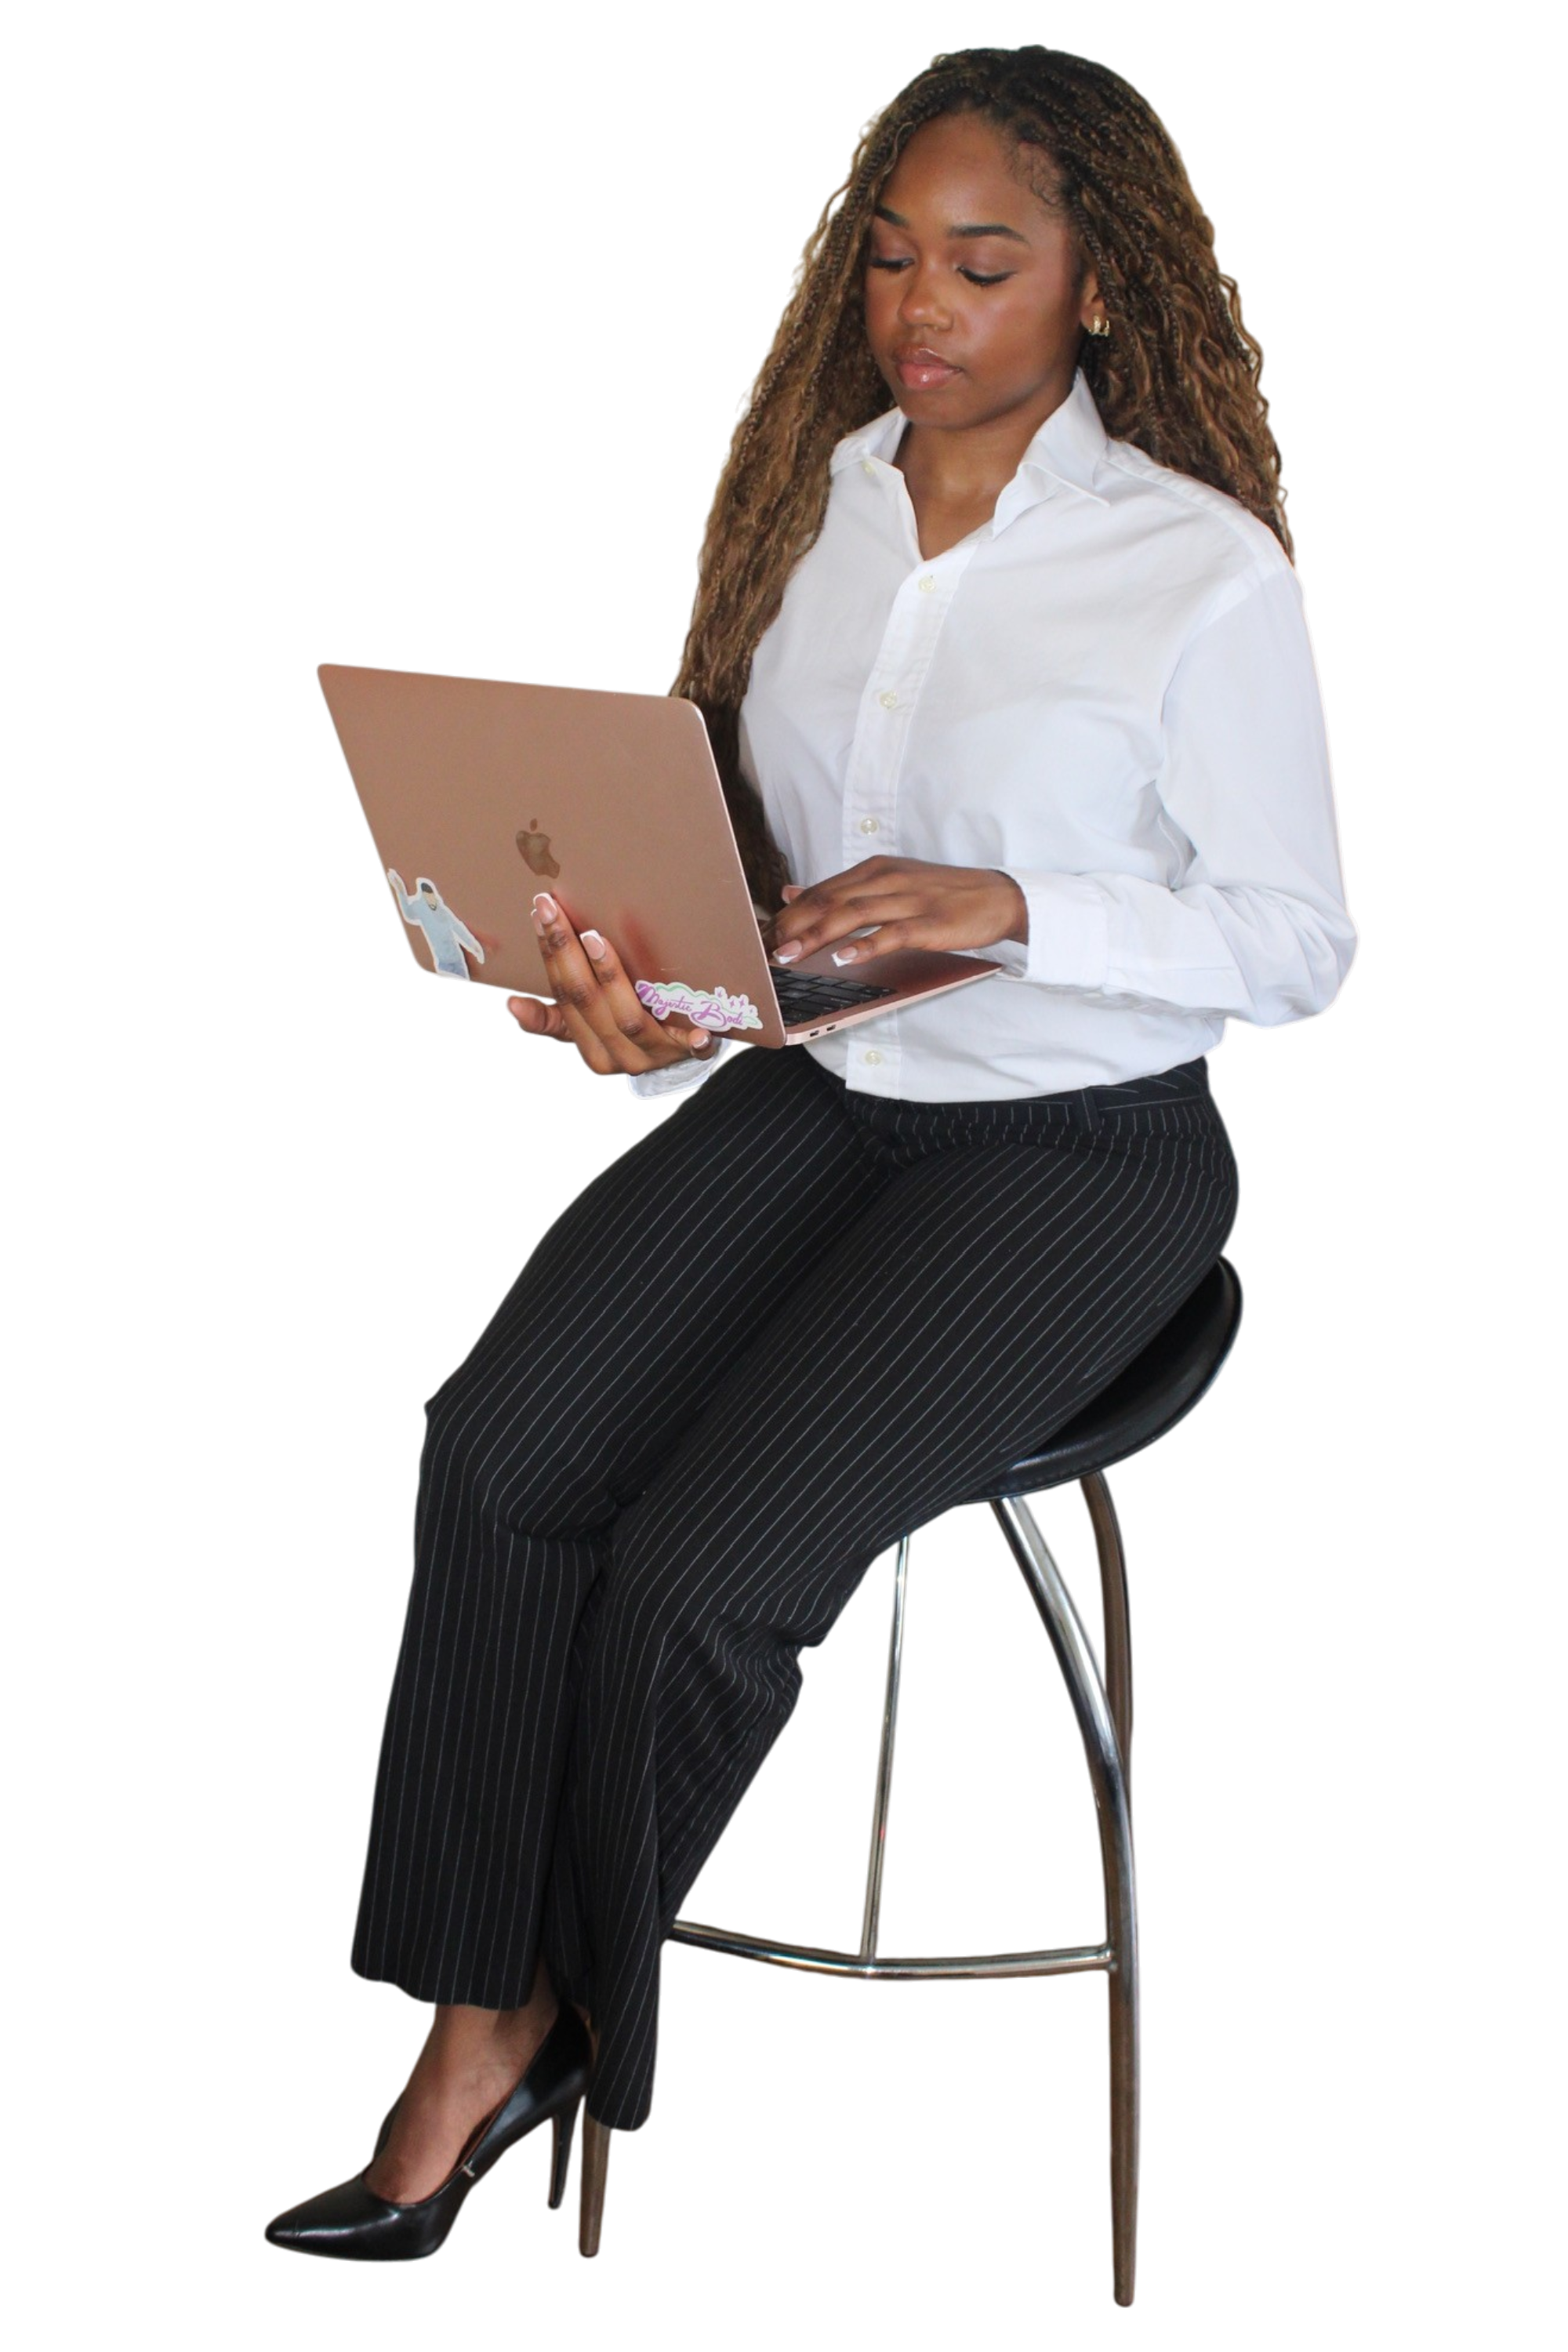
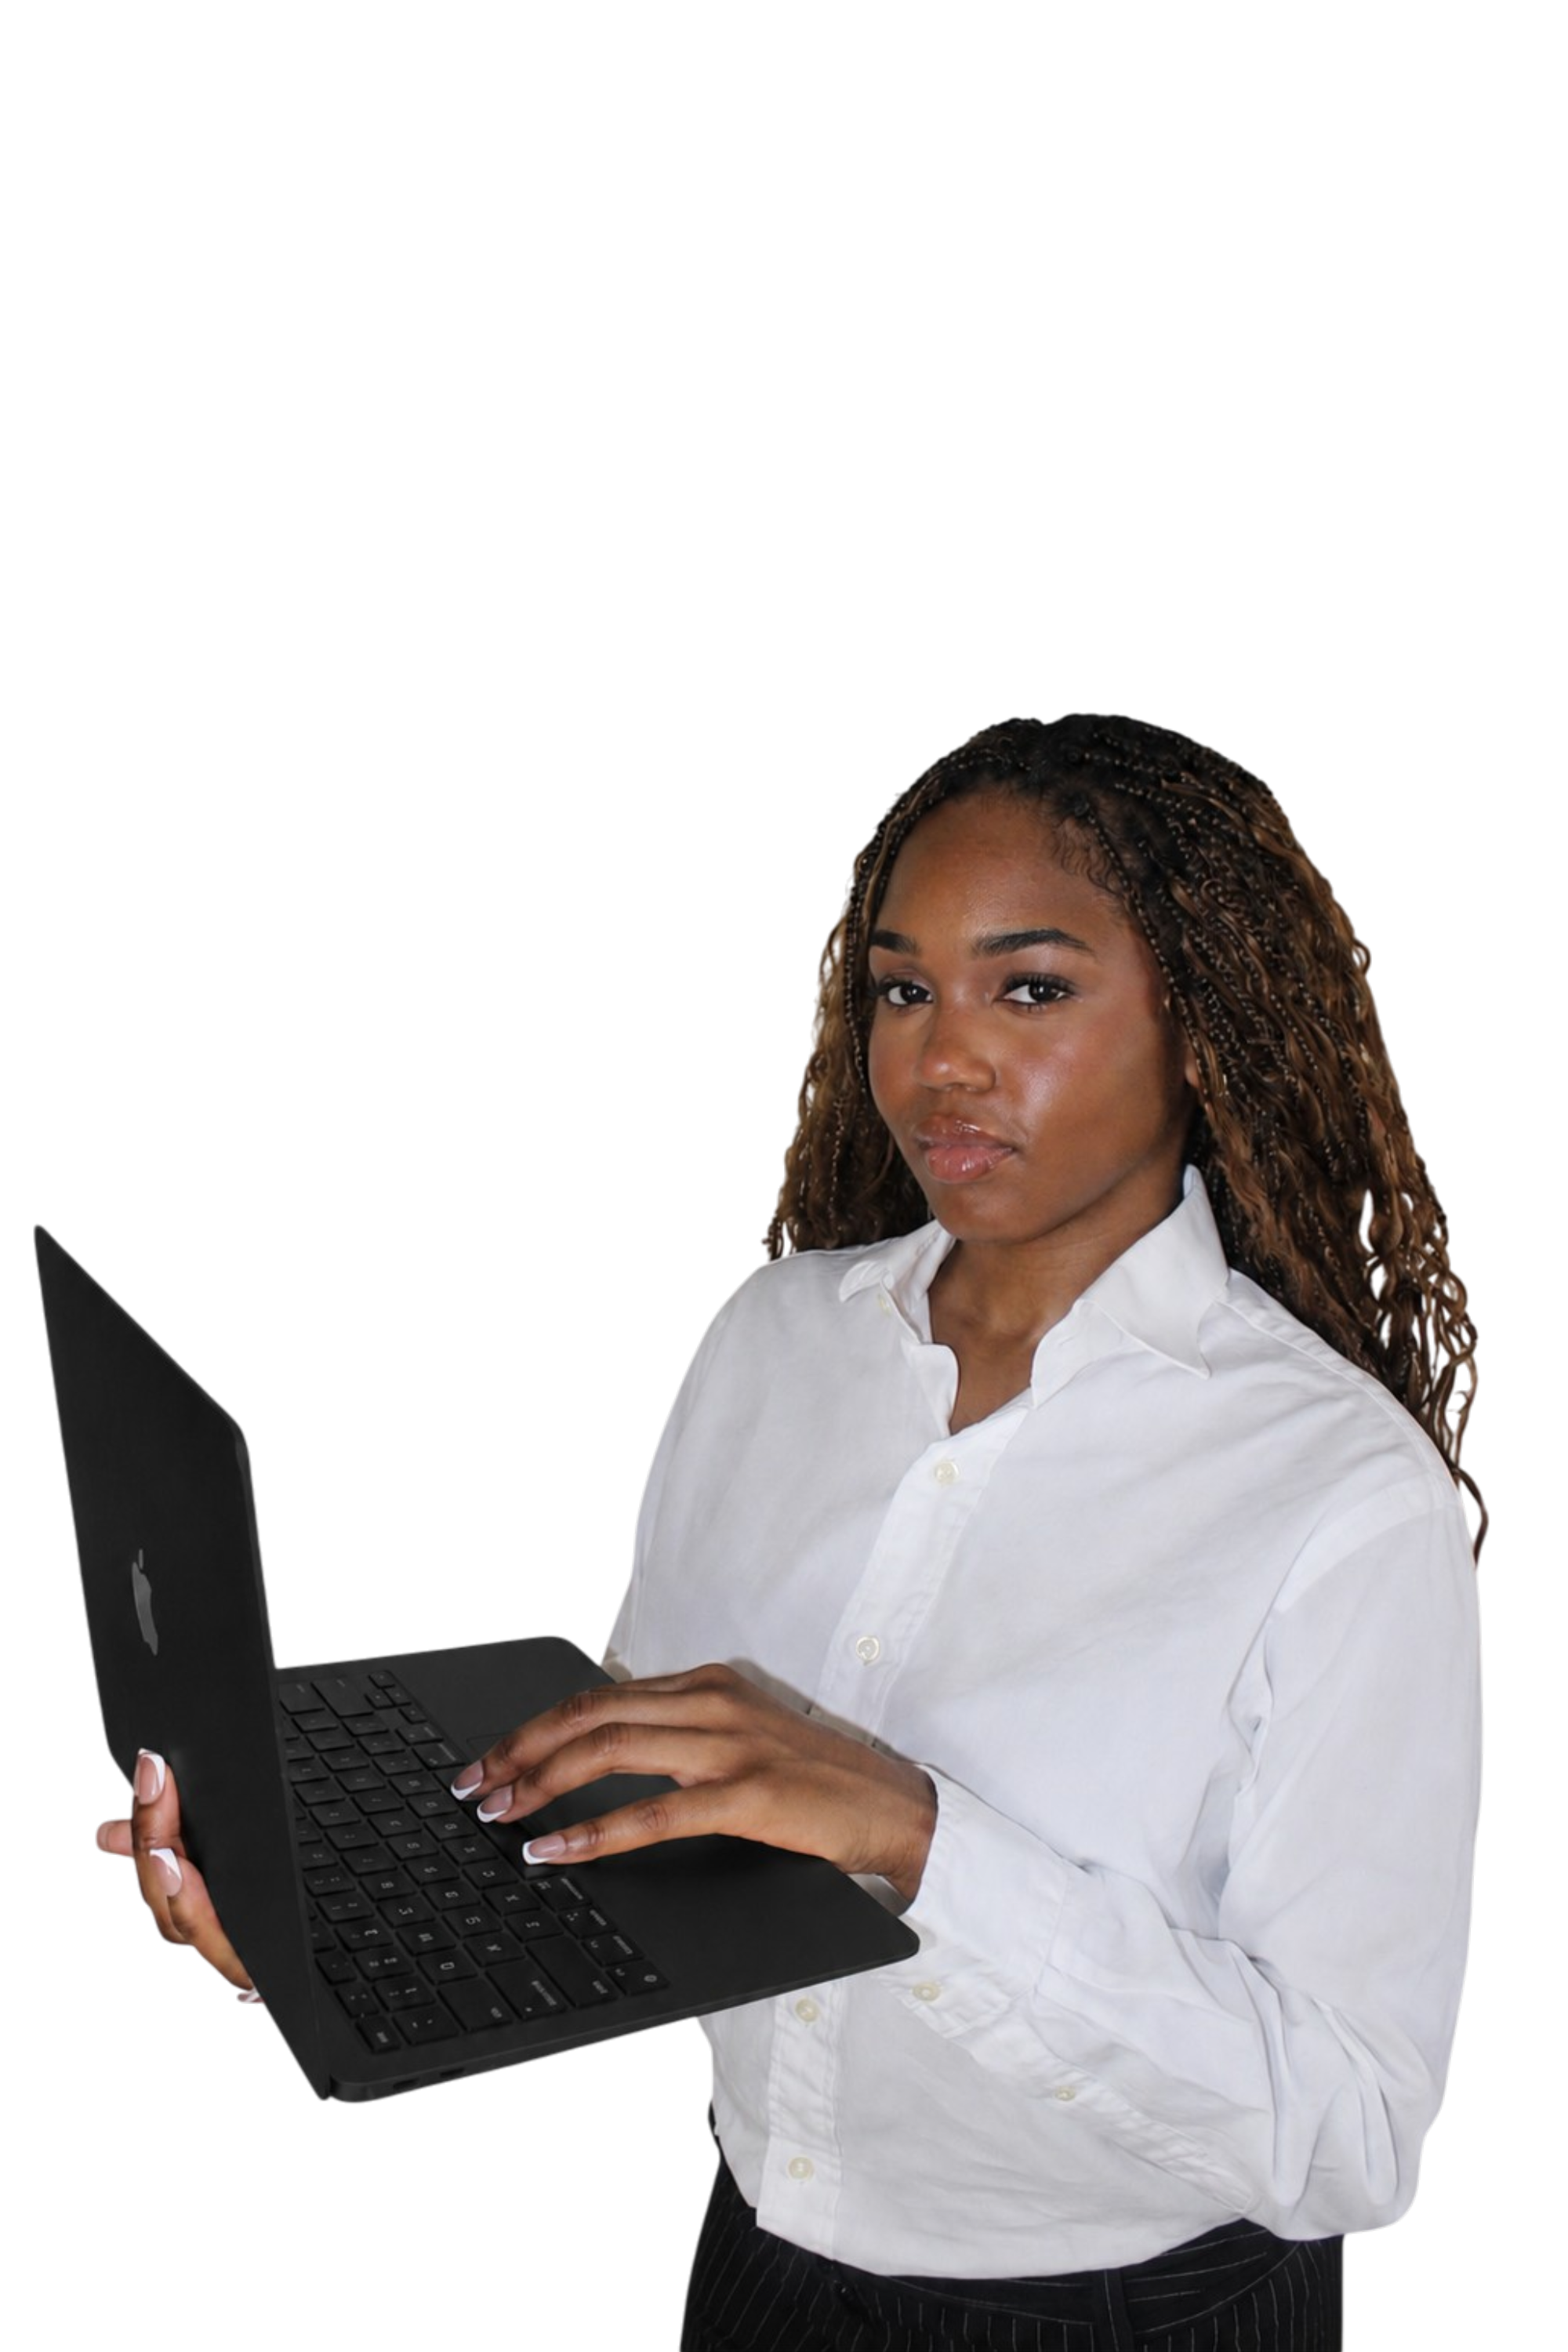
finished Eve

diff --git a/styles.css b/styles.css
@@ -5,7 +5,7 @@ body {
     margin: 0;
     padding: 0;
 }
-
+/* Main Container Styles */
 .main{
     width: 100%;
     flex: 1;
@@ -41,7 +41,7 @@ body {
         transform: scale(1);
     }
 }
-
+/* Navigation Bar Styles */
 .navbar{
     width: 86%;
     display: flex;
@@ -131,7 +131,7 @@ ul li a{
 ul li a:hover{
     color: #9BD671;
 }
-
+/* Homepage Info Section Styles */
 .info{
     margin-left: 7%;
     margin-top: 6%;
@@ -158,22 +158,27 @@ ul li a:hover{
     background: #3B2349;
     padding: 10px 18px;
     border-radius: 10px;
+    border: 2px solid #9BD671;
     display: inline-block;
     transition: 1s ease;
     font-family: Ubuntu;
+    cursor: pointer;
+    font-weight: bold;
+    font-size: 16px;
 }
 
 .info a:hover{
     background: #9BD671;
     color: #3B2349;
 }
-
+/* Image Styles */
 .image{
     width: 35%;
     height: 55%;
     position: absolute;
     right:0;
-    bottom: 100px;
+    top: 45%;
+    transform: translateY(0);
 }
 
 .image img{
@@ -181,14 +186,14 @@ ul li a:hover{
     height: 160%;
     left: 35%;
     transform: translate(-70%);
-    bottom:0;
-    transition: left 2s ease;
+    bottom:0px;
+    transition: filter 0.4s ease-in-out, drop-shadow 0.4s ease-in-out;
 }
 
 .image img:hover{
-    left: 55%
+    filter: drop-shadow(0 0 25px rgba(155, 214, 113, 0.8)) brightness(1.1);
 }
-
+/* Footer Styles */
 .footer {
     width: 100%;
     padding: 20px 40px;
@@ -219,7 +224,7 @@ ul li a:hover{
     height: 30px;
     object-fit: contain;
 }
-
+/* About Page Styles */
 .about-wrapper {
     width: 60%;
     margin: auto;
@@ -265,6 +270,7 @@ ul li a:hover{
     width: 280px;
     height: 280px;
     object-fit: cover;
+    object-position: center 75% !important;
     border-radius: 50%; 
     border: 3px solid #3B2349;
     box-shadow: 0 10px 20px rgba(0,0,0,0.15);
@@ -280,6 +286,7 @@ ul li a:hover{
     max-width: 800px; 
     margin-left: auto;
     margin-right: auto;
+    font-weight:bold;
 }
 
 .about-hire-btn {
@@ -288,6 +295,8 @@ ul li a:hover{
     background: #3B2349; 
     padding: 12px 40px;
     border-radius: 25px; 
+    border: 2px solid #9BD671;
+    
     display: inline-block;
     font-size: 16px;
     font-weight: bold;
@@ -299,8 +308,9 @@ ul li a:hover{
 .about-hire-btn:hover {
     background: #9BD671;
     transform: scale(1.05); 
+    color:#3B2349
 }
-
+/* Image Hover Effect Styles */
 .image-hover-container{
     display: inline-block;
     position: relative;
@@ -314,6 +324,7 @@ ul li a:hover{
     width: 280px;
     height: 280px;
     object-fit: cover;
+    object-position: center 75% !important;
     border-radius: 50%;
     border: 3px solid #3B2349;
     box-shadow: 0 10px 20px rgba(0,0,0,0.15);
@@ -338,7 +349,7 @@ ul li a:hover{
 .image-hover-container:hover img {
     box-shadow: 0 0 35px rgba(218, 113, 240, 0.6); 
 }
-
+/* Glowing Text Styles */
 .glowing-tech-title {
     font-size: 36px !important; 
     color: #9BD671 !important;  
@@ -389,7 +400,7 @@ ul li a:hover{
         transform: translateX(0);
     }
 }
-
+/* Zipper Animation Styles */
 .zipper-container{
     overflow-x: hidden;
     padding: 20px;
@@ -455,7 +466,7 @@ ul li a:hover{
         transform: translateX(0);
     }
 }
-
+/* Project Slider Styles */
 .slider-wrapper{
     position: relative;
     width: 100%;
@@ -484,7 +495,7 @@ ul li a:hover{
 .slider-track::-webkit-scrollbar {
     display: none;
 }
-
+/* Project Card Styles */
 .card {
     flex: 0 0 calc((100% - 40px) / 3);
     height: 480px;
@@ -510,9 +521,9 @@ ul li a:hover{
 .card-content h3{
     margin-top: 0;
     margin-bottom: 30px;
-    font-family: 'Courier New', Courier, monospace;
+    font-family: Ubuntu;
     color:#9BD671;
-    font-size: 22px;
+    font-size: 32px;
     text-align: center;
 }
 
@@ -525,6 +536,7 @@ ul li a:hover{
     display: block;
     overflow: hidden;
     text-align: center;
+    font-weight: bold;
 }
 
 .card-tech-stack {
@@ -572,7 +584,7 @@ ul li a:hover{
     transform: scale(1.05);
     box-shadow: 0 0 15px rgba(155, 214, 113, 0.6);
 }
-
+/* Navigation Arrow Styles */
 .nav-arrow {
     position: absolute;
     top: 50%;
@@ -605,7 +617,7 @@ ul li a:hover{
     background: #3B2349;
     transform: translateY(-50%) scale(1.1);
 }
-
+/* Contact Page Styles */
 .contact-header {
     text-align: center;
     margin-bottom: 40px;
@@ -615,13 +627,13 @@ ul li a:hover{
 .contact-header h3 {
     font-family: monospace;
     color: white;
-    font-size: 15px;
-    line-height: 22px;
-    max-width: 600px;
+    font-size: 18px;
+    line-height: 24px;
+    max-width: 1000px;
     margin: 15px auto 0 auto; 
-    font-weight: normal;
+    font-weight: bold;
 }
-
+/* Contact Split Layout Styles */
 .contact-split-layout {
     display: flex;
     justify-content: space-between;
@@ -633,7 +645,7 @@ ul li a:hover{
     padding: 0 40px;
     box-sizing: border-box;
 }
-
+/* Contact Form and Links Styles */
 .contact-form-side, 
 .contact-links-side {
     flex: 1; 
@@ -701,7 +713,7 @@ ul li a:hover{
     min-height: 150px;
     resize: vertical;
 }
-
+/* Social Connect Grid Styles */
 .social-connect-grid {
     display: flex;
     flex-direction: column;
@@ -749,9 +761,125 @@ ul li a:hover{
     font-size: 28px;
     line-height: 1;
 }
+/* Responsive Styles  for Mobile Devices */
 
 @media (max-width: 768px) {
+    .navbar {
+        width: 95%;
+        padding: 10px 0;
+    }
+
+    .navbar .logo {
+        width: 70px;
+        height: 70px;
+    }
+
+    .logo-text {
+        font-size: 18px;
+    }
+
+    ul {
+        gap: 5px;
+    }
+
+    ul li {
+        padding: 8px 10px;
+    }
+
+    ul li a {
+        font-size: 13px;
+    }
+
+    .info {
+        margin-left: 5%;
+        margin-top: 15%;
+    }
+
+    .info h1 {
+        font-size: 40px;
+    }
+
+    .info h3 {
+        font-size: 14px;
+        line-height: 20px;
+    }
+
+    .info a {
+        padding: 8px 12px;
+        font-size: 14px;
+        margin-right: 10px;
+    }
+
+    .image {
+        width: 100%;
+        height: auto;
+        position: relative;
+        top: auto;
+        bottom: auto;
+        margin-top: 30px;
+    }
+
+    .image img {
+        height: auto;
+        width: 80%;
+        left: 50%;
+    }
+
     .contact-split-layout {
         flex-direction: column;
+        gap: 30px;
+        max-width: 100%;
+        padding: 0 20px;
+    }
+
+    .card {
+        flex: 0 0 100%;
+        height: auto;
+    }
+
+    .about-wrapper {
+        width: 90%;
+        padding: 20px;
+    }
+
+    .about-image img,
+    .image-hover-container img {
+        width: 200px;
+        height: 200px;
+    }
+
+    .slider-wrapper {
+        padding: 0 20px;
+    }
+
+    .contact-header h1 {
+        font-size: 28px;
+    }
+
+    .footer {
+        padding: 15px 20px;
+    }
+
+    .footer p {
+        font-size: 12px;
+    }
+}
+
+@media (max-width: 480px) {
+    .info h1 {
+        font-size: 30px;
+    }
+
+    .glowing-tech-title {
+        font-size: 24px !important;
+    }
+
+    ul li a {
+        font-size: 11px;
+        padding: 6px 8px;
+    }
+
+    .card-content h3 {
+        font-size: 20px;
     }
 }

diff --git a/contact.html b/contact.html
@@ -49,17 +49,17 @@
 
                     
                     <a href="https://github.com/AlluringAleshia" class="connect-card" target="_blank" rel="noopener">
-                        <img src="images/Githublogo.png" alt="GitHub">
+                        <img src="images/github2.png" alt="GitHub">
                         <span>GitHub: AlluringAleshia</span>
                     </a>
 
                     <a href="https://www.linkedin.com/in/aleshia-mcrae-/" class="connect-card" target="_blank" rel="noopener">
-                        <img src="images/linkedinlogo.png" alt="LinkedIn">
+                        <img src="images/linkedin2.png" alt="LinkedIn">
                         <span>LinkedIn: Aleshia McRae</span>
                     </a>
 
                     <a href="Resume-AleshiaMcRae.pdf" class="connect-card" target="_blank" rel="noopener">
-                        <img src="images/resumelogo.png" alt="Resume">
+                        <img src="images/resume.png" alt="Resume">
                         <span>Download My Resume</span>
                     </a>
                 </div>